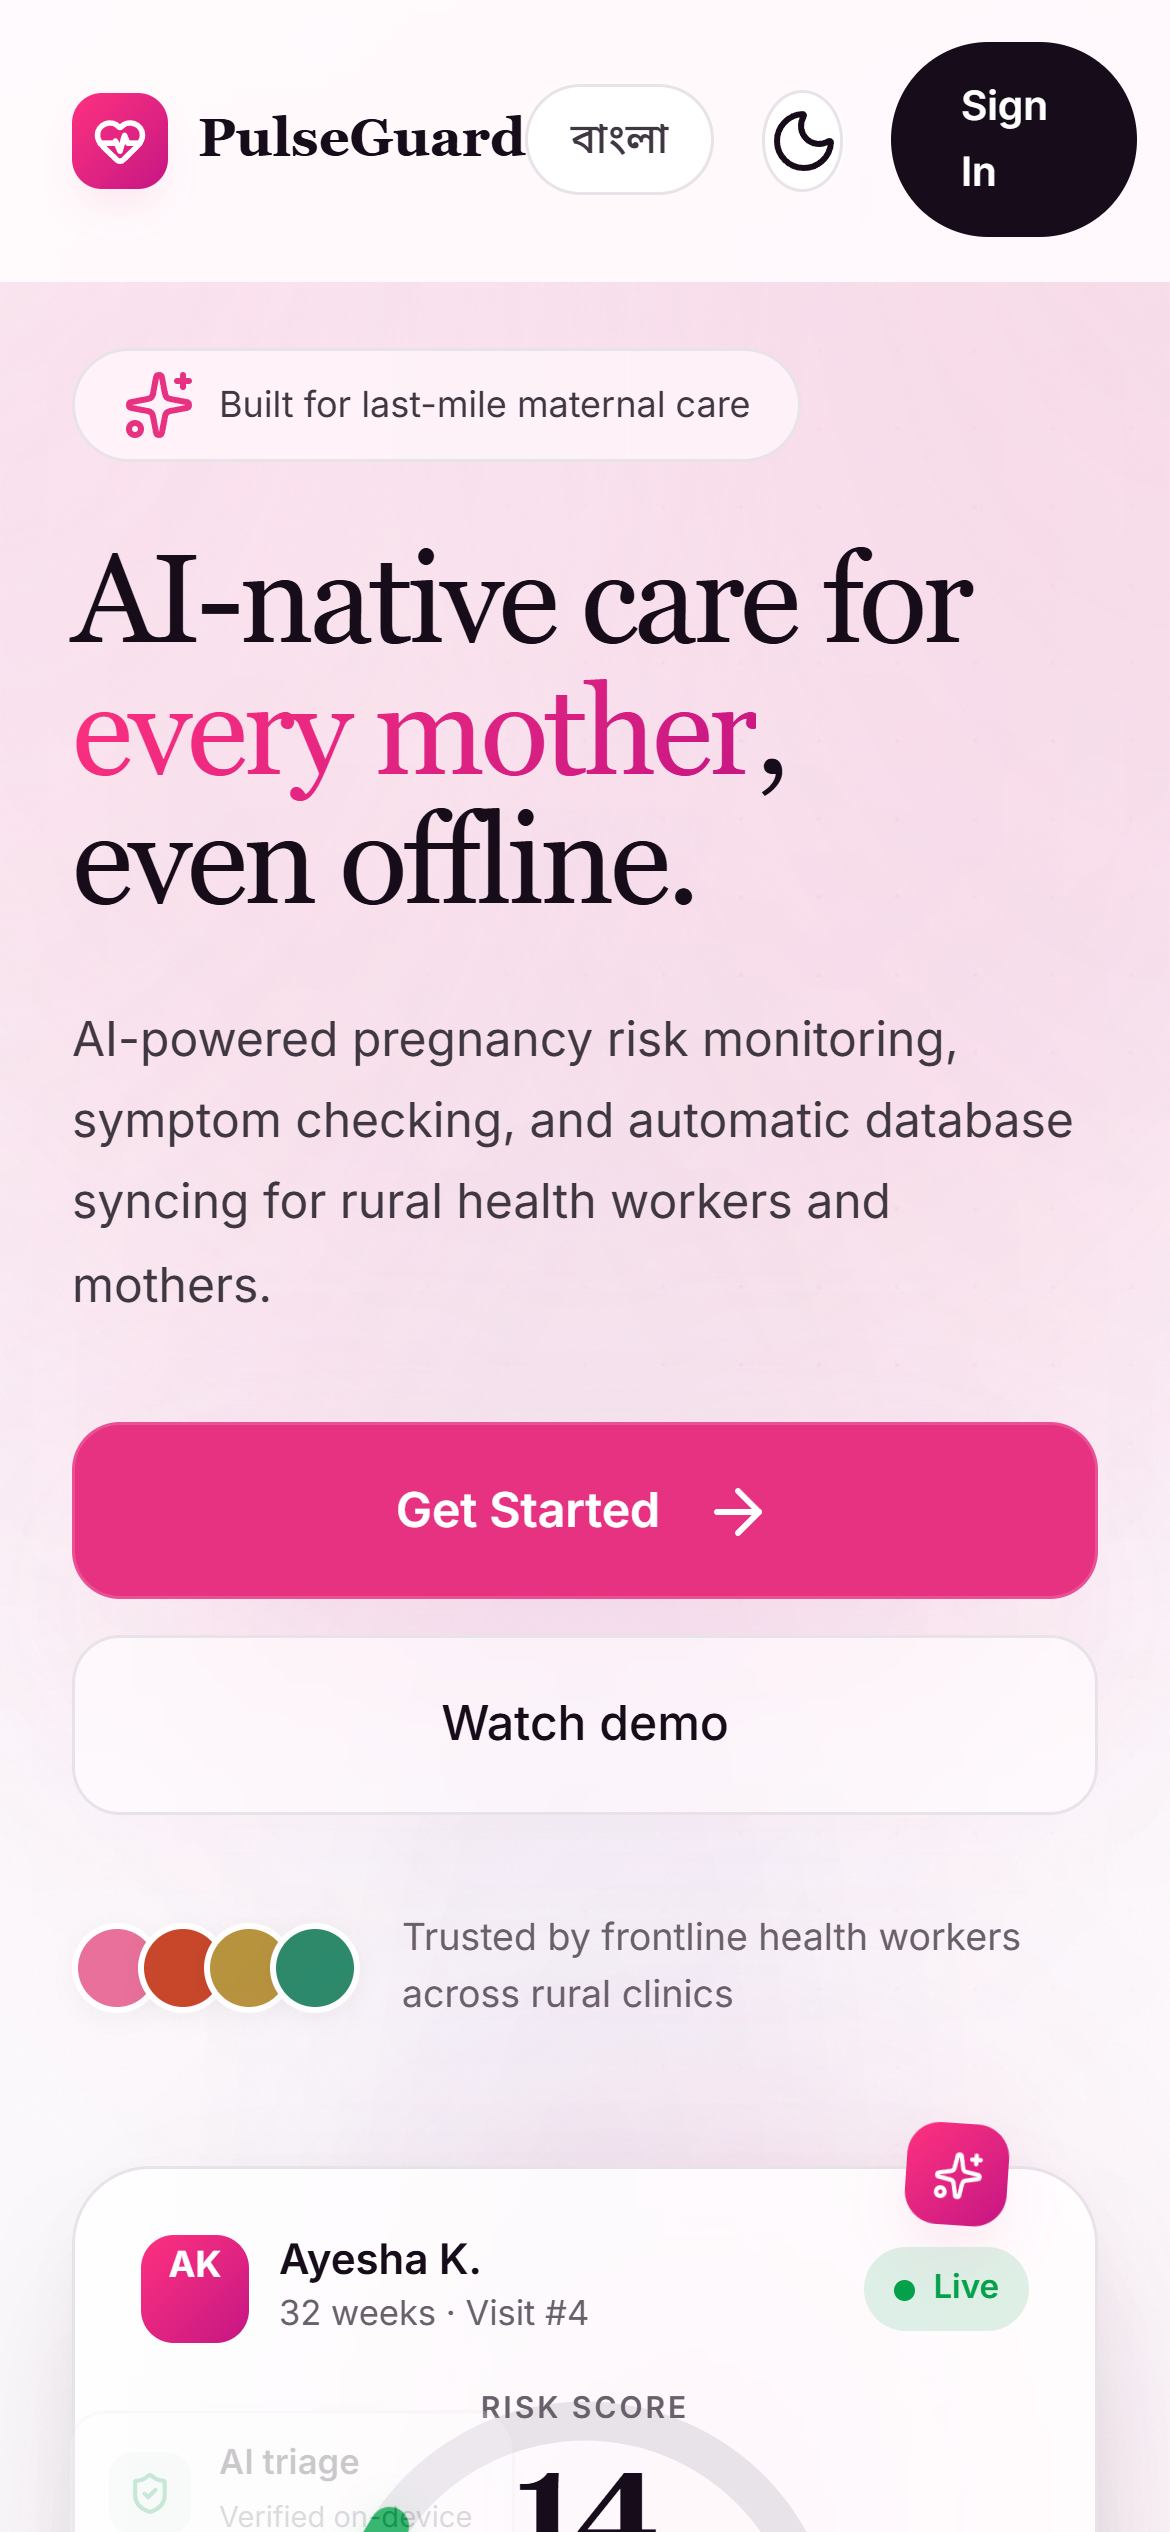
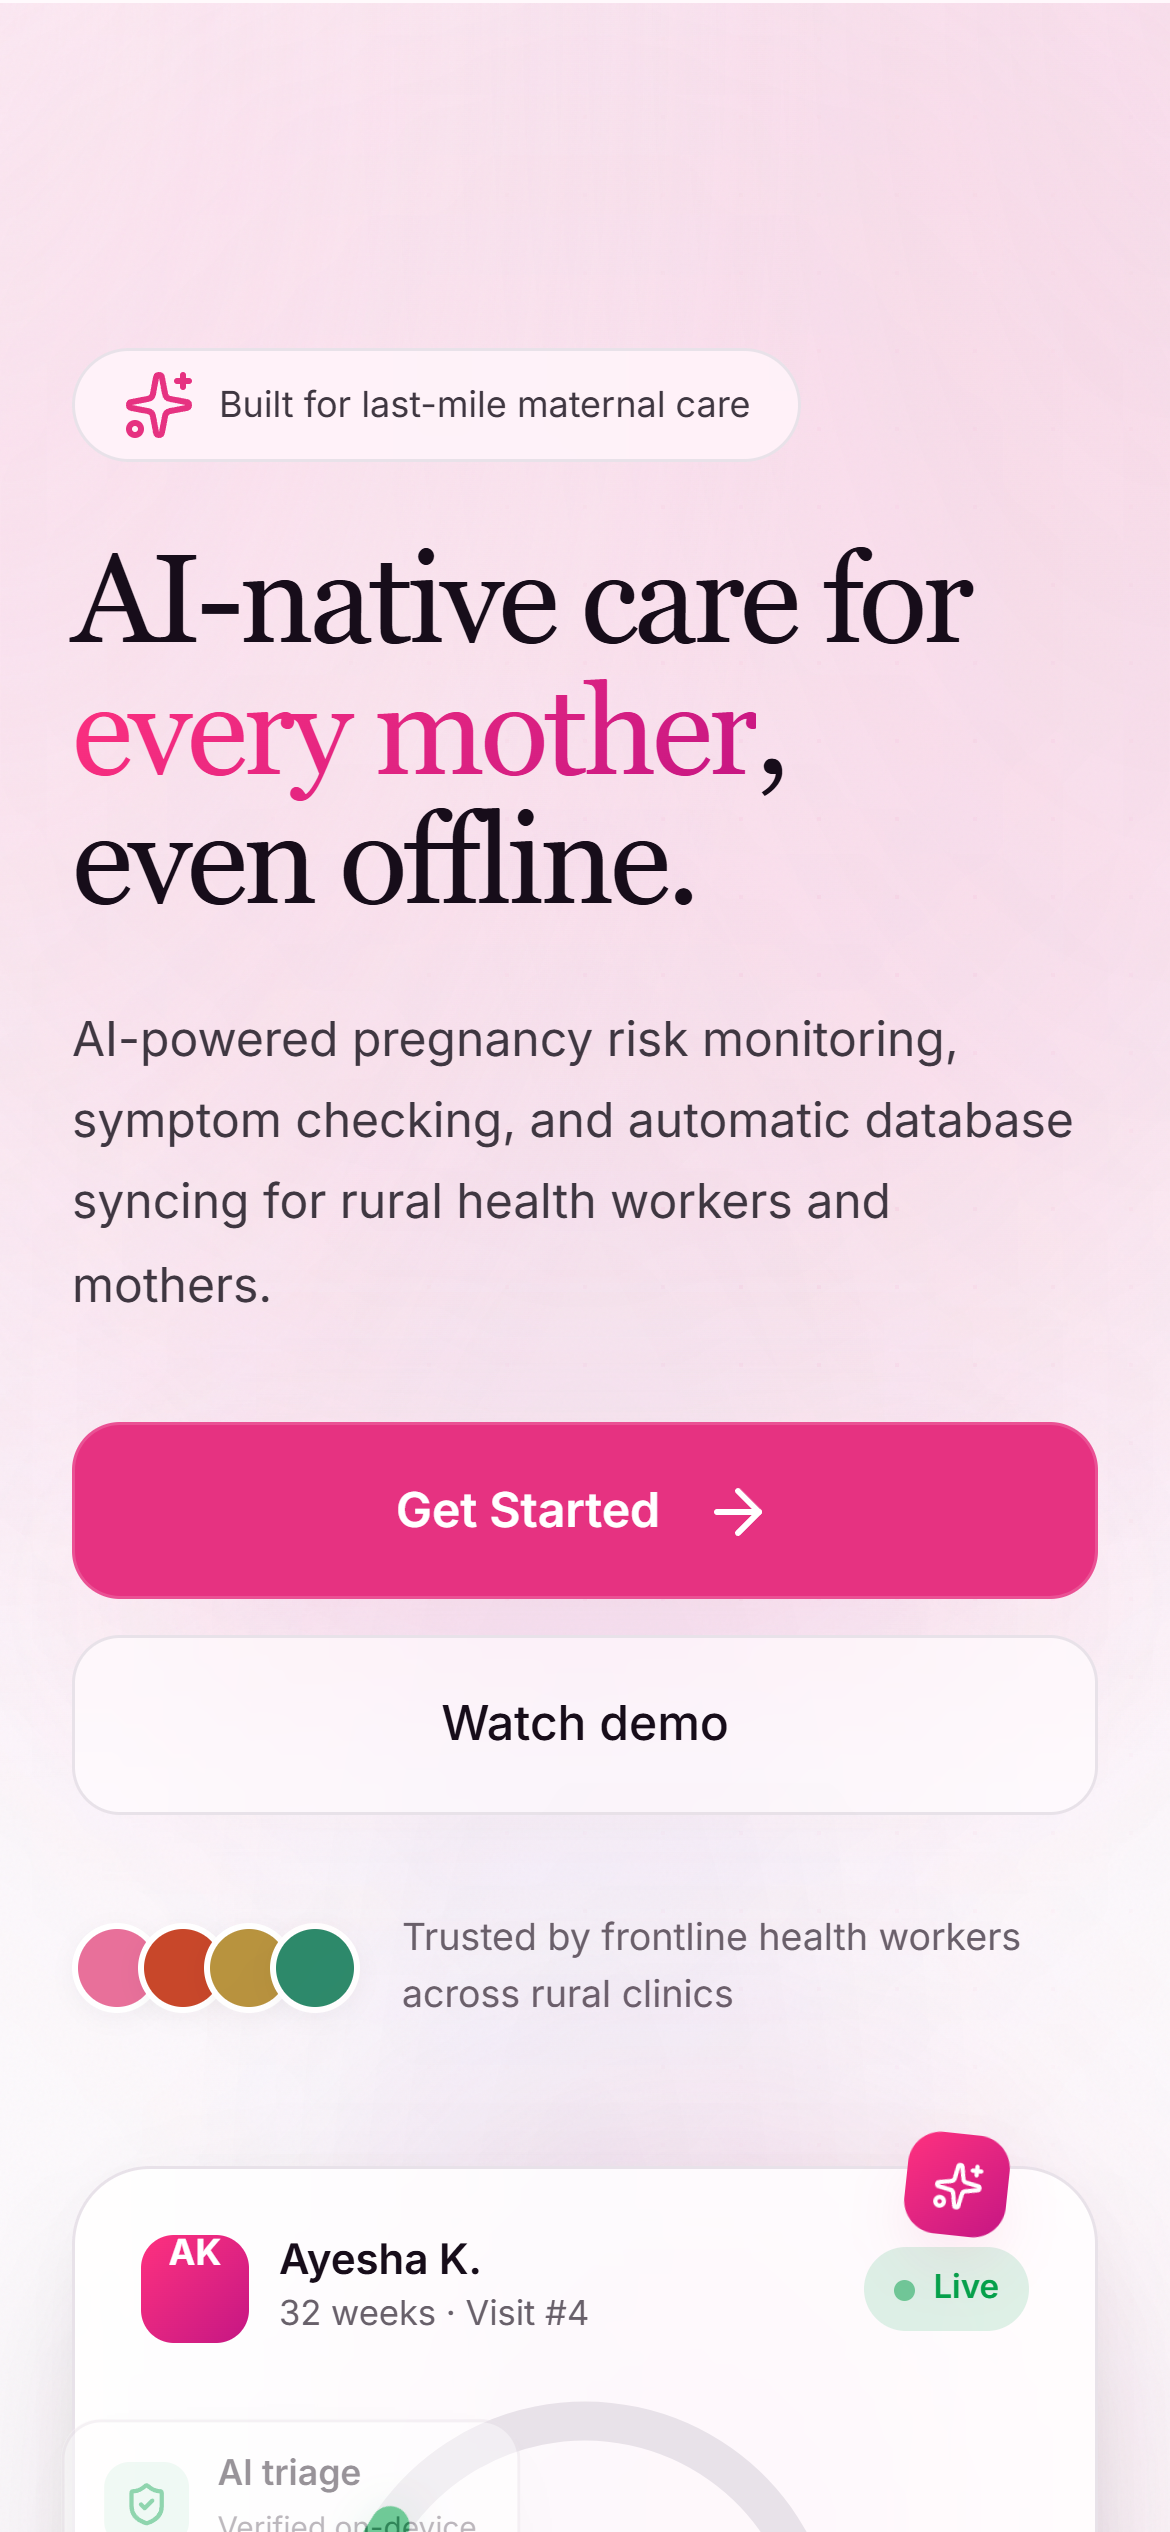
Landing Page V1.1

diff --git a/frontend/src/App.css b/frontend/src/App.css
@@ -3875,8 +3875,9 @@ select.input option {
   color: #fff;
   font-size: 12px;
   font-weight: 700;
+  line-height: 1;
 }
-.vitals__patient > span { display: flex; flex-direction: column; }
+.vitals__patient-info { display: flex; flex-direction: column; }
 .vitals__patient strong { font-size: 14px; color: var(--color-text); font-weight: 600; line-height: 1.2; }
 .vitals__patient em { font-style: normal; font-size: 11.5px; color: var(--color-muted); }
 .vitals__live {
@@ -3910,8 +3911,10 @@ select.input option {
 }
 .vitals__gauge-center {
   position: absolute;
-  inset: 0;
-  bottom: 40px;
+  left: 0;
+  right: 0;
+  top: 58px;
+  height: 84px;
   display: flex;
   flex-direction: column;
   align-items: center;

diff --git a/frontend/src/components/landing/VitalsMonitor.jsx b/frontend/src/components/landing/VitalsMonitor.jsx
@@ -35,7 +35,7 @@ export default function VitalsMonitor({ locale = 'en' }) {
         <div className="vitals__head">
           <div className="vitals__patient">
             <span className="vitals__avatar">AK</span>
-            <span>
+            <span className="vitals__patient-info">
               <strong>Ayesha K.</strong>
               <em>{t('32 weeks · Visit #4', '৩২ সপ্তাহ · ভিজিট #৪')}</em>
             </span>
